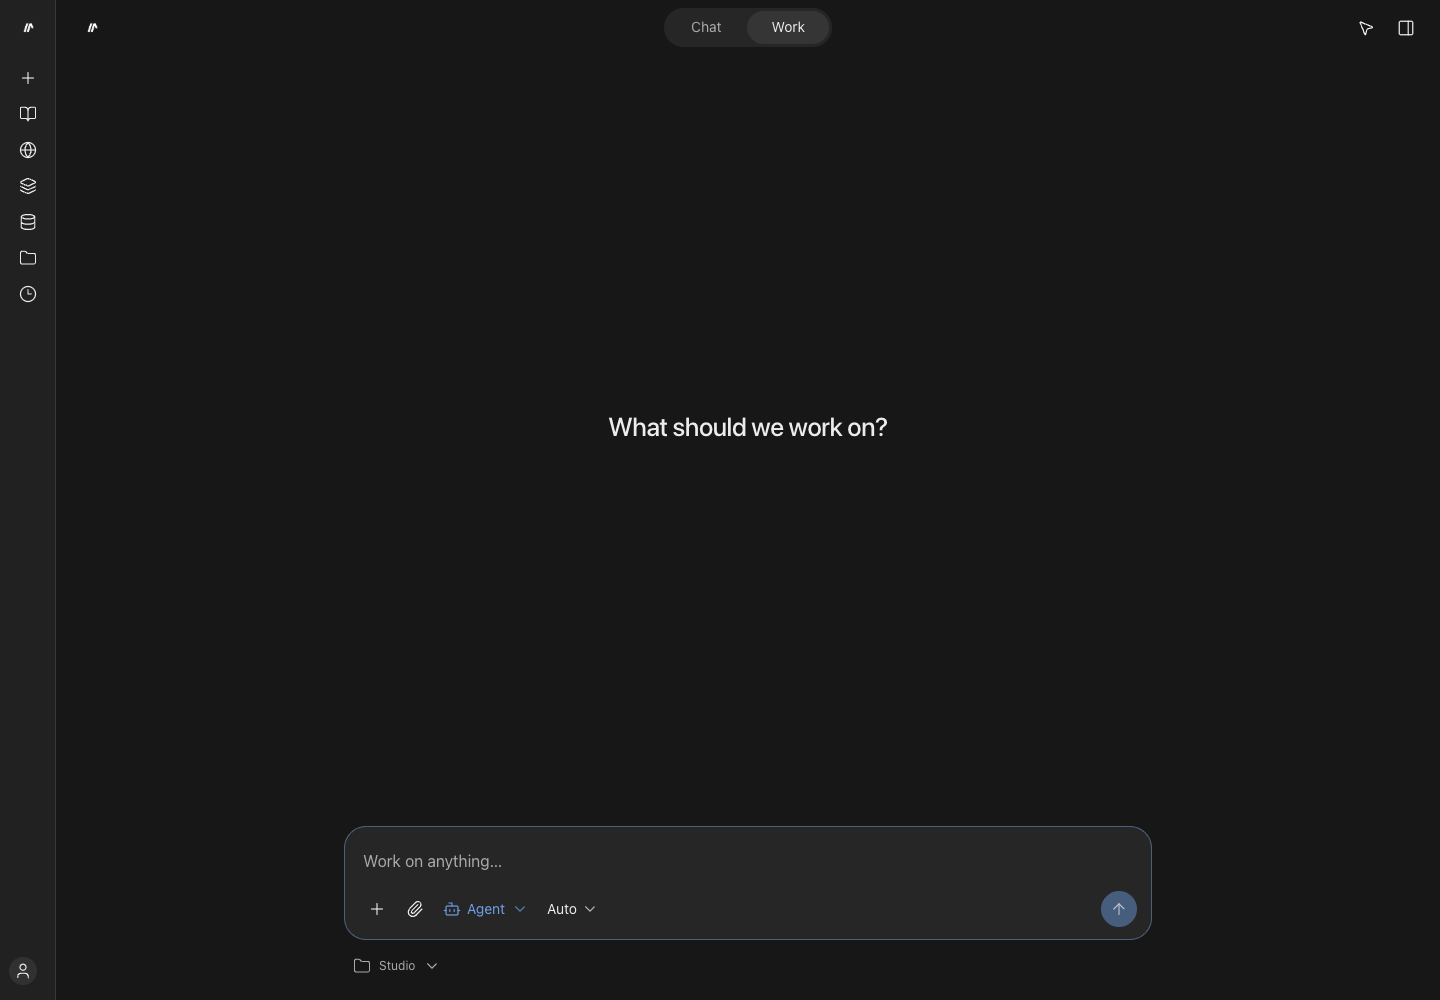
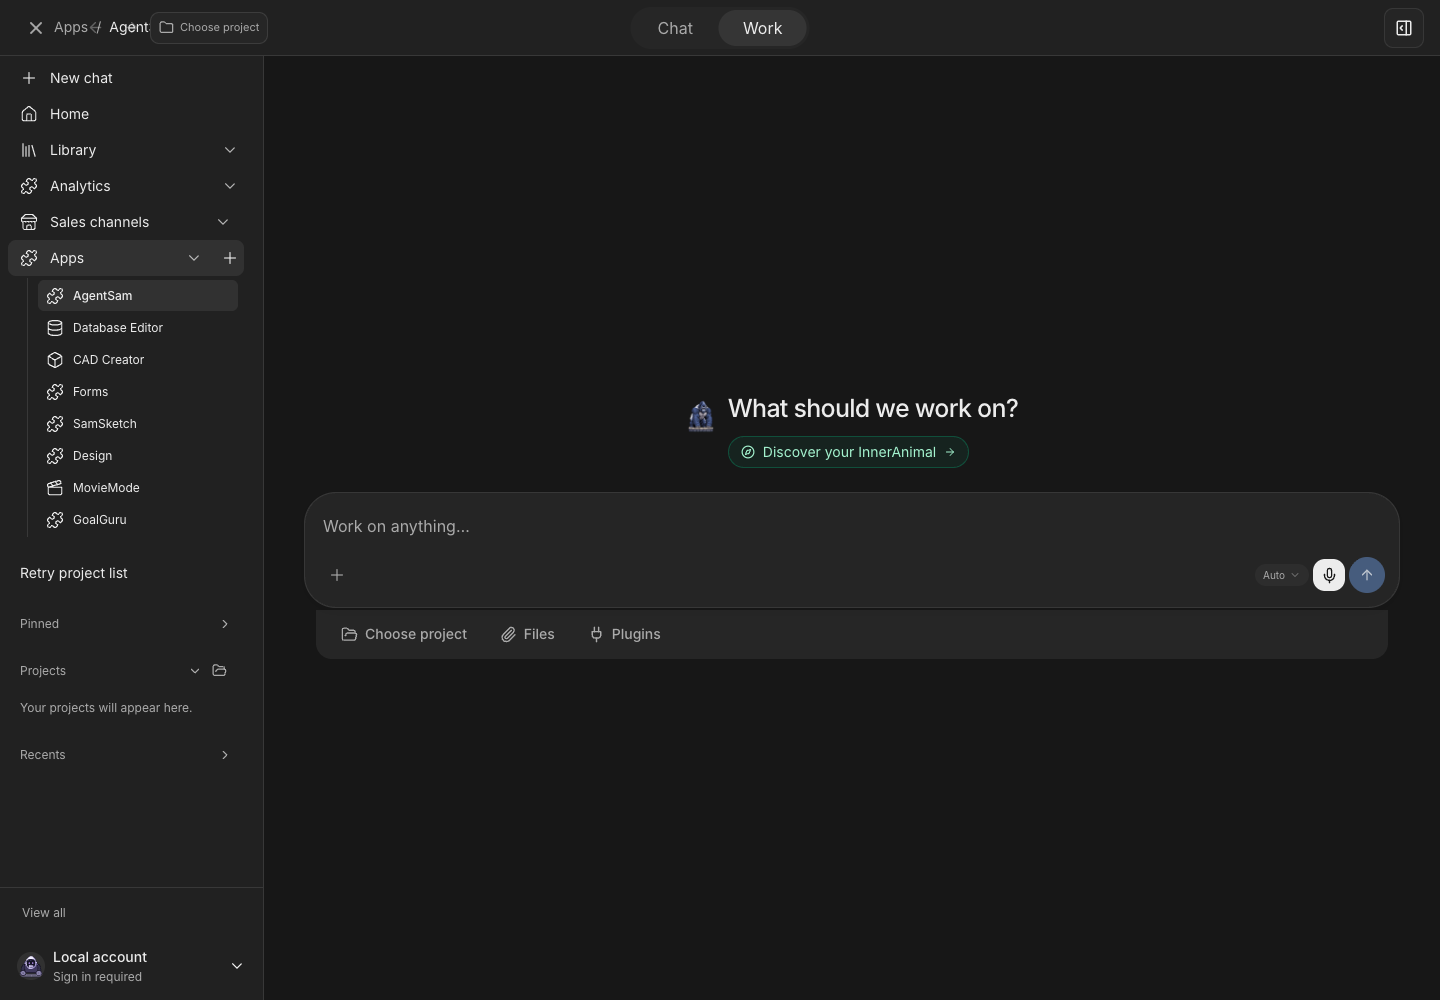
fix(studio): slim npm distribution and repair desktop asset staging

diff --git a/apps/local-studio/frontend/desktop/index.html b/apps/local-studio/frontend/desktop/index.html
@@ -46,6 +46,7 @@
       <img src="/brand/agentsam-mark-on-dark.svg" alt="" draggable="false" />
     </div>
     <div id="root"></div>
+    <script src="/desktop-api-fetch.js"></script>
     <script>
       (() => {
         const boot = document.getElementById("agentsam-desktop-boot");

diff --git a/apps/local-studio/README.md b/apps/local-studio/README.md
@@ -1,6 +1,6 @@
 # AgentSam Local Studio
 
-Authoring workspace for the browser UI launched by `agentsam start-local`.
+Source workspace for AgentSam Desktop and the hosted Studio. The npm distribution is a compiled preview artifact, not a source checkout or a native desktop installer. `agentsam-studio preview`, `info`, and `doctor` consume `desktop-dist/`, the app manifest, and the CLI. The source workspace, Worker deployment, migrations, and development tools remain in the repository; native signed installers are produced by the desktop shell.
 
 This app was seeded from the working `AgentSam-Grok-Workmode` Studio UI and is being normalized here before it is exported to `dist/local-studio/`. Routes and cloud deployment wiring are donor-era details and are expected to change; the reusable shell, workbench, terminal, browser, Monaco, helper-chat and project UX are the parts to preserve.
 
